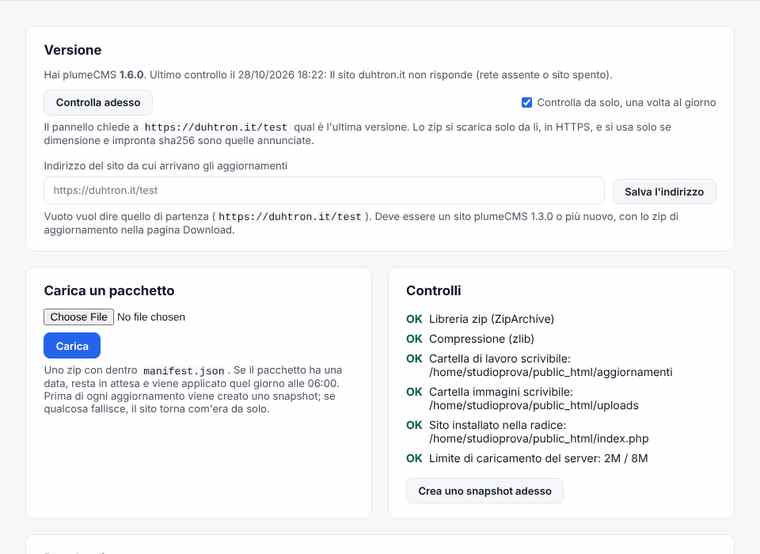
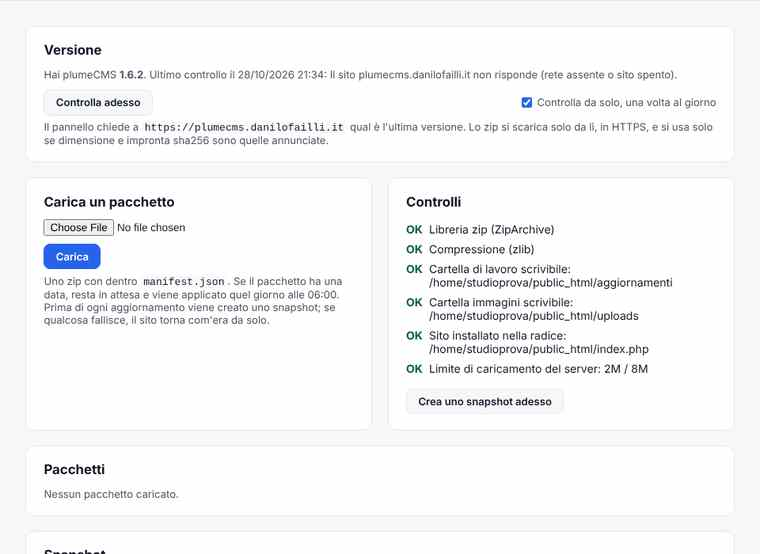
1.6.2: l'indirizzo degli aggiornamenti arriva con gli aggiornamenti
Decisione di Danilo: tutte le installazioni chiedono le versioni nuove a
https://plumecms.danilofailli.it e nessuno lo scrive più a mano. Via il campo
di Aggiornamenti della 1.3.1 e versione_sito_salva(); l'impostazione vecchia
si ignora; CMS_AGGIORNAMENTI_URL resta solo per le prove. prova-versione-sito
riscritta con settings-cli.php; prova-versione e il sito ufficiale finto
ricavano le versioni dal sito cliente invece di averle scritte dentro.

Claude-Session: https://claude.ai/code/session_01Ddnix1ocLSpj3D8QhkAFuA

diff --git a/prove/prova-versione.js b/prove/prova-versione.js
@@ -1,5 +1,5 @@
 // "C'e una versione nuova" (1.3.0) con due installazioni locali: una fa da sito ufficiale (con il pacchetto finto
-// plumecms-1.3.1-aggiornamento.zip nel suo download manager), l'altra e il sito che si aggiorna. Piu un sito ufficiale
+// plumecms-<versione del cliente piu uno>-aggiornamento.zip nel suo download manager), l'altra e il sito che si aggiorna. Piu un sito ufficiale
 // che si comporta male (prove/finto-ufficiale.php). Come un utente: l'avviso nella dashboard (che non aspetta la rete),
 // la pagina Aggiornamenti, "Scarica e prepara", il pacchetto in coda, Applica ora, la versione nuova. Poi i casi da
 // respingere: http senza la costante delle prove, rete assente, rimandi, sha256 sbagliato, zip su un altro host,
@@ -11,6 +11,10 @@ const fs = require('fs'), path = require('path'), crypto = require('crypto');
 const [B, CMS, UFF, CMSU, FINTO, LOGU, U, P, OUT] = process.argv.slice(2);
 let n = 0, ko = 0; const ok = (t, c, extra = '') => { n++; if (!c) ko++; console.log((c ? 'OK  ' : 'KO  ') + t + (extra ? ' ' + JSON.stringify(extra).slice(0, 260) : '')); };
 const CFG = path.join(CMS, 'includes/config.local.php');
+// La versione del cliente e quella "nuova" del pacchetto finto (l'ultimo numero piu uno): la prova vale per ogni versione.
+const V0 = fs.readFileSync(path.join(CMS, 'VERSIONE'), 'utf8').trim();
+const V1 = V0.replace(/(\d+)$/, m => String(+m + 1));
+const rV1 = new RegExp(V1.replace(/\./g, '\\.'));
 const base = fs.readFileSync(CFG, 'utf8').replace(/\n\/\/ prova-versione[\s\S]*$/, '\n');
 // Dopo ogni cambio del config si aspettano 2,2 secondi: con l'opcache il server rilegge un file cambiato solo dopo 2 secondi.
 const attesa = ms => new Promise(r => setTimeout(r, ms));
@@ -19,20 +23,20 @@ const php = (codice) => execFileSync('php', ['-r', `$_SERVER['HTTP_HOST']='127.0
 const svuota = () => php("save_setting('versione_controllo_cache', '');");
 const richiesteUff = () => fs.existsSync(LOGU) ? fs.readFileSync(LOGU, 'utf8').length : 0; // FINTO_CONTA: un carattere per richiesta
 (async () => {
-  // Il pacchetto finto 1.3.1: scrive solo VERSIONE.
-  const pacchetto = path.join(OUT, 'plumecms-1.3.1-aggiornamento.zip');
+  // Il pacchetto finto (la versione del cliente piu uno): scrive solo VERSIONE.
+  const pacchetto = path.join(OUT, `plumecms-${V1}-aggiornamento.zip`);
   execFileSync('python3', ['-I', '-c', `import json,zipfile,sys
 z=zipfile.ZipFile(sys.argv[1],'w',zipfile.ZIP_DEFLATED)
-z.writestr('manifest.json', json.dumps({'nome':'plumeCMS 1.3.1 (prova)','descrizione':'Pacchetto di prova: cambia solo VERSIONE','file':[{'da':'cms/VERSIONE','a':'new/VERSIONE'}]}))
-z.writestr('cms/VERSIONE','1.3.1\\n'); z.close()`, pacchetto]);
+z.writestr('manifest.json', json.dumps({'nome':'plumeCMS ${V1} (prova)','descrizione':'Pacchetto di prova: cambia solo VERSIONE','file':[{'da':'cms/VERSIONE','a':'new/VERSIONE'}]}))
+z.writestr('cms/VERSIONE','${V1}\\n'); z.close()`, pacchetto]);
   fs.mkdirSync(path.join(CMSU, 'uploads/scaricabili'), { recursive: true });
-  fs.copyFileSync(pacchetto, path.join(CMSU, 'uploads/scaricabili/plumecms-1.3.1-aggiornamento.zip'));
+  fs.copyFileSync(pacchetto, path.join(CMSU, `uploads/scaricabili/plumecms-${V1}-aggiornamento.zip`));
   const shaVero = crypto.createHash('sha256').update(fs.readFileSync(pacchetto)).digest('hex');
   // L'endpoint pubblico del sito ufficiale
   const req = await (await chromium.launch()).newContext();
   const r1 = await req.request.get(UFF + '/api/versione.php?serie=plumecms-ultima-aggiornamento');
   const j1 = await r1.json().catch(() => ({}));
-  ok('api/versione.php: versione, nome, sha256, dimensione e indirizzo dell\'ultimo file della serie', r1.status() === 200 && j1.versione === '1.3.1' && j1.nome === 'plumecms-1.3.1-aggiornamento.zip' && j1.sha256 === shaVero && j1.dimensione === fs.statSync(pacchetto).size && j1.url.endsWith('/scarica/plumecms-1.3.1-aggiornamento/'), j1);
+  ok('api/versione.php: versione, nome, sha256, dimensione e indirizzo dell\'ultimo file della serie', r1.status() === 200 && j1.versione === V1 && j1.nome === `plumecms-${V1}-aggiornamento.zip` && j1.sha256 === shaVero && j1.dimensione === fs.statSync(pacchetto).size && j1.url.endsWith(`/scarica/plumecms-${V1}-aggiornamento/`), j1);
   const r2 = await req.request.get(UFF + '/api/versione.php?serie=../../etc');
   const r3 = await req.request.get(UFF + '/api/versione.php?serie=nessuna-ultima');
   const r4 = await req.request.post(UFF + '/api/versione.php?serie=plumecms-ultima-aggiornamento');
@@ -49,7 +53,7 @@ z.writestr('cms/VERSIONE','1.3.1\\n'); z.close()`, pacchetto]);
   // Dashboard: niente cache, il browser chiede il controllo dopo il caricamento; l'avviso compare
   svuota(); const prima = richiesteUff();
   await p.goto(B + '/admin/index.php', { waitUntil: 'networkidle' }); await p.waitForTimeout(1500);
-  ok('dashboard: "plumeCMS 1.3.1 e disponibile" con il link ad Aggiornamenti', await p.locator('#db-versione').isVisible() && /1\.3\.1/.test(await p.locator('#db-versione').innerText()) && await p.locator('#db-versione a[href^="aggiornamenti.php"]').count() === 1);
+  ok(`dashboard: "plumeCMS ${V1} e disponibile" con il link ad Aggiornamenti`, await p.locator('#db-versione').isVisible() && rV1.test(await p.locator('#db-versione').innerText()) && await p.locator('#db-versione a[href^="aggiornamenti.php"]').count() === 1);
   await p.screenshot({ path: `${OUT}/versione-dashboard.png` });
   const dopo1 = richiesteUff();
   for (let i = 0; i < 3; i++) { await p.goto(B + '/admin/index.php', { waitUntil: 'networkidle' }); await p.goto(B + '/admin/aggiornamenti.php', { waitUntil: 'networkidle' }); }
@@ -59,7 +63,7 @@ z.writestr('cms/VERSIONE','1.3.1\\n'); z.close()`, pacchetto]);
   await config(UFF); php(`require_once '${CMS}/includes/versione-nuova.php'; versione_controlla(true);`);
   // Aggiornamenti: Scarica e prepara
   await p.goto(B + '/admin/aggiornamenti.php', { waitUntil: 'networkidle' });
-  ok('Aggiornamenti: la scheda della versione nuova con "Scarica e prepara"', /1\.3\.1 è disponibile/.test(await p.locator('#agg-versione').innerText()) && await p.locator('#agg-versione button:has-text("Scarica e prepara")').count() === 1);
+  ok('Aggiornamenti: la scheda della versione nuova con "Scarica e prepara"', new RegExp(V1.replace(/\./g, '\\.') + ' è disponibile').test(await p.locator('#agg-versione').innerText()) && await p.locator('#agg-versione button:has-text("Scarica e prepara")').count() === 1);
   await p.screenshot({ path: `${OUT}/versione-aggiornamenti.png` });
   // Senza token: respinto
   const inCoda = () => fs.readdirSync(path.join(CMS, 'aggiornamenti/pacchetti')).filter(f => f.endsWith('.zip')).length;
@@ -68,16 +72,16 @@ z.writestr('cms/VERSIONE','1.3.1\\n'); z.close()`, pacchetto]);
   ok('Scarica e prepara senza token CSRF: respinto, niente in coda', senza.status() === 403 && inCoda() === codaPrima, senza.status());
   await Promise.all([p.waitForNavigation({ timeout: 120000 }), p.click('#agg-versione button:has-text("Scarica e prepara")')]);
   const tAgg = await p.locator('body').innerText();
-  ok('Scarica e prepara: scaricato e controllato, il pacchetto e nella lista in attesa', /scaricato e controllato/.test(tAgg) && await p.locator('.agg-table tr', { hasText: 'plumeCMS 1.3.1 (prova)' }).locator('.agg-stato.in_attesa').count() === 1);
-  ok('il sito non e ancora cambiato (versione 1.3.0)', fs.readFileSync(path.join(CMS, 'VERSIONE'), 'utf8').trim() === '1.3.0');
+  ok('Scarica e prepara: scaricato e controllato, il pacchetto e nella lista in attesa', /scaricato e controllato/.test(tAgg) && await p.locator('.agg-table tr', { hasText: `plumeCMS ${V1} (prova)` }).locator('.agg-stato.in_attesa').count() === 1);
+  ok(`il sito non e ancora cambiato (versione ${V0})`, fs.readFileSync(path.join(CMS, 'VERSIONE'), 'utf8').trim() === V0);
   ok('un secondo "Scarica e prepara" non lo mette due volte', await p.locator('#agg-versione').innerText().then(t => /già scaricato/.test(t)) && await p.locator('#agg-versione button:has-text("Scarica e prepara")').count() === 0);
   await p.screenshot({ path: `${OUT}/versione-in-coda.png`, fullPage: true });
-  const rigaP = p.locator('.agg-table tr', { hasText: 'plumeCMS 1.3.1 (prova)' });
+  const rigaP = p.locator('.agg-table tr', { hasText: `plumeCMS ${V1} (prova)` });
   await Promise.all([p.waitForNavigation({ timeout: 120000 }), rigaP.locator('button:has-text("Applica ora")').click()]);
-  ok('Applica ora: il sito e alla 1.3.1', /Aggiornamento applicato/.test(await p.locator('body').innerText()) && fs.readFileSync(path.join(CMS, 'VERSIONE'), 'utf8').trim() === '1.3.1');
+  ok(`Applica ora: il sito e alla ${V1}`, /Aggiornamento applicato/.test(await p.locator('body').innerText()) && fs.readFileSync(path.join(CMS, 'VERSIONE'), 'utf8').trim() === V1);
   await p.goto(B + '/admin/index.php', { waitUntil: 'networkidle' }); await p.waitForTimeout(800);
   ok('dopo l\'aggiornamento la dashboard non mostra piu l\'avviso', !(await p.locator('#db-versione').isVisible()));
-  fs.writeFileSync(path.join(CMS, 'VERSIONE'), '1.3.0\n');
+  fs.writeFileSync(path.join(CMS, 'VERSIONE'), V0 + '\n');
   // I casi da respingere: Controlla adesso, poi Scarica e prepara
   const controlla = async () => { await p.goto(B + '/admin/aggiornamenti.php', { waitUntil: 'networkidle' }); await Promise.all([p.waitForNavigation({ timeout: 60000 }), p.click('#agg-versione button:has-text("Controlla adesso")')]); return p.locator('body').innerText(); };
   const prepara = async () => { if (!await p.locator('#agg-versione button:has-text("Scarica e prepara")').count()) return 'nessun pulsante'; await Promise.all([p.waitForNavigation({ timeout: 120000 }), p.click('#agg-versione button:has-text("Scarica e prepara")')]); return p.locator('body').innerText(); };

diff --git a/prove/prova-versione-sito.js b/prove/prova-versione-sito.js
@@ -1,8 +1,14 @@
-// L'indirizzo del sito ufficiale come parametro (1.3.1): in Aggiornamenti si scrive, si controlla, si torna al predefinito.
-// Serve un sito senza CMS_AGGIORNAMENTI_URL nel config.local.php (con la costante il campo non c'è: lo dice la pagina).
-// uso: node prova-versione-sito.js <base> <utente> <password>
+// L'indirizzo del sito ufficiale non si scrive più nel pannello (1.6.2, decisione di Danilo): è quello del codice e arriva
+// con gli aggiornamenti. Qui si controlla che in Aggiornamenti il campo della 1.3.1 non ci sia più, che la pagina dica
+// l'indirizzo ufficiale, che il vecchio POST "versione_sito" non faccia niente e che un indirizzo salvato in passato
+// (impostazione versione_sito di un sito aggiornato) venga ignorato.
+// Serve un sito senza CMS_AGGIORNAMENTI_URL nel config.local.php (con la costante la pagina mostra quella).
+// uso: node prova-versione-sito.js <base> <utente> <password> [cartella CMS installato: scrive l'impostazione vecchia con settings-cli]
 const { chromium } = require('playwright');
-const [B, UTENTE, PASSWORD] = process.argv.slice(2);
+const { execFileSync } = require('child_process');
+const path = require('path');
+const [B, UTENTE, PASSWORD, DIR] = process.argv.slice(2);
+const UFFICIALE = 'https://plumecms.danilofailli.it';
 let n = 0, ko = 0; const ok = (t, c, extra = '') => { n++; if (!c) ko++; console.log((c ? 'OK  ' : 'KO  ') + t + (extra ? ' ' + JSON.stringify(extra).slice(0, 200) : '')); };
 
 (async () => {
@@ -13,20 +19,27 @@ let n = 0, ko = 0; const ok = (t, c, extra = '') => { n++; if (!c) ko++; console
   await Promise.all([p.waitForNavigation(), p.click('button[type=submit]')]);
   const pagina = () => p.goto(B + '/admin/aggiornamenti.php', { waitUntil: 'networkidle' });
   const nota = async () => (await p.locator('.agg-note', { hasText: 'qual è l\'ultima versione' }).first().innerText());
-  const salva = async (u) => { await p.fill('input[name=sito]', u); await Promise.all([p.waitForNavigation(), p.click('button:has-text("Salva l\'indirizzo")')]); return p.locator('body').innerText(); };
 
   await pagina();
-  const predefinito = await p.locator('input[name=sito]').getAttribute('placeholder');
-  ok('il campo dell\'indirizzo c\'è, con il predefinito come esempio', /^https:\/\//.test(predefinito || ''), predefinito);
-  let t = await salva('http://esempio.it');
-  ok('un indirizzo senza https viene rifiutato', /comincia con https:\/\//.test(t));
-  t = await salva('https://esempio.it/x?a=1');
-  ok('un indirizzo con ? viene rifiutato', /senza \? né #/.test(t));
-  t = await salva('https://www.esempio.it/plume/');
-  ok('un indirizzo giusto si salva, senza la barra finale', /Da adesso il pannello chiede le versioni nuove a https:\/\/www\.esempio\.it\/plume\./.test(t));
-  ok('la pagina dice a chi chiede', (await nota()).includes('https://www.esempio.it/plume'), await nota());
-  t = await salva('');
-  ok('vuoto torna al predefinito', (await nota()).includes(predefinito), await nota());
+  ok('il campo "Indirizzo del sito da cui arrivano gli aggiornamenti" non c\'è più', await p.locator('input[name=sito]').count() === 0 && !(await p.locator('body').innerText()).includes('Salva l\'indirizzo'));
+  ok('la pagina dice che chiede a ' + UFFICIALE, (await nota()).includes(UFFICIALE), await nota());
+  // Il vecchio POST della 1.3.1: la pagina lo ignora, niente errori, l'indirizzo non cambia.
+  const t = await p.evaluate(async () => {
+    const csrf = document.querySelector('input[name=_csrf]').value;
+    const r = await fetch('aggiornamenti.php', { method: 'POST', headers: { 'Content-Type': 'application/x-www-form-urlencoded' }, body: new URLSearchParams({ _csrf: csrf, action: 'versione_sito', sito: 'https://www.esempio.it/plume' }).toString(), credentials: 'include' });
+    return { status: r.status, testo: (await r.text()).slice(0, 4000) };
+  });
+  await pagina();
+  ok('il vecchio POST "versione_sito" non cambia niente', t.status < 400 && !/Fatal|Warning/.test(t.testo) && (await nota()).includes(UFFICIALE) && !(await nota()).includes('esempio.it'), { status: t.status });
+  if (DIR) {
+    // Un sito aggiornato che aveva salvato un indirizzo suo: si ignora.
+    execFileSync('php', [path.join(__dirname, 'settings-cli.php'), DIR, 'scrivi', 'versione_sito', 'https://www.esempio.it/plume']);
+    await pagina();
+    ok('un indirizzo salvato in passato (impostazione versione_sito) viene ignorato', (await nota()).includes(UFFICIALE) && !(await nota()).includes('esempio.it'), await nota());
+    execFileSync('php', [path.join(__dirname, 'settings-cli.php'), DIR, 'scrivi', 'versione_sito', '']);
+  } else {
+    ok('(senza la cartella del CMS la prova dell\'impostazione vecchia si salta)', true);
+  }
   ok('nessun errore JavaScript', err.length === 0, err);
   await br.close();
   console.log(`\n${n - ko} su ${n} OK`);

diff --git a/cms/includes/versione-nuova.php b/cms/includes/versione-nuova.php
@@ -4,9 +4,10 @@
  * versione e, se e più nuova di questa, l'amministratore la scarica e la mette nella coda di Aggiornamenti con un clic.
  * Da li si applica come uno zip caricato a mano: snapshot, file, ripristino da solo se qualcosa va storto.
  *
- * Da dove (1.3.1: un parametro): CMS_AGGIORNAMENTI_URL nel config.local.php se c'è (vince e il pannello non lo cambia),
- * altrimenti l'indirizzo scritto in Aggiornamenti (impostazione versione_sito), altrimenti VERSIONE_SITO_UFFICIALE.
- * Ognuno e l'indirizzo di un plumeCMS, senza barra finale. Il sito ufficiale risponde con api/versione.php per la serie VERSIONE_SERIE del suo
+ * Da dove (1.6.2, decisione di Danilo): sempre VERSIONE_SITO_UFFICIALE, scritto qui e portato dagli aggiornamenti stessi;
+ * nessuno lo scrive più nel pannello (il campo della 1.3.1 non c'è più e l'impostazione versione_sito, se un sito l'aveva
+ * salvata, si ignora). Solo per le prove, CMS_AGGIORNAMENTI_URL nel config.local.php lo sostituisce (prove/prova-versione.js).
+ * E l'indirizzo di un plumeCMS, senza barra finale. Il sito ufficiale risponde con api/versione.php per la serie VERSIONE_SERIE del suo
  * download manager: versione, nome, sha256 e dimensione del file.
  *
  * Quando: al massimo una volta al giorno (la risposta si ricorda nell'impostazione versione_controllo_cache), mai
@@ -33,24 +34,10 @@ const VERSIONE_MAX_ZIP = 52428800;      // 50 MB
 const VERSIONE_TIMEOUT = 5;             // secondi per la risposta JSON
 const VERSIONE_TIMEOUT_ZIP = 60;        // secondi per lo zip
 
-/** L'indirizzo del sito ufficiale (senza barra finale): la costante del config, poi quello del pannello, poi il predefinito. */
+/** L'indirizzo del sito ufficiale (senza barra finale): VERSIONE_SITO_UFFICIALE, o CMS_AGGIORNAMENTI_URL solo nelle prove. */
 function versione_sito(): string {
     if (defined('CMS_AGGIORNAMENTI_URL')) return rtrim(trim((string)CMS_AGGIORNAMENTI_URL), '/');
-    $u = trim((string)get_setting('versione_sito', ''));
-    return rtrim($u !== '' ? $u : VERSIONE_SITO_UFFICIALE, '/');
-}
-
-/**
- * Cambia l'indirizzo del sito ufficiale dal pannello: '' torna al predefinito. Ritorna '' oppure il motivo per cui non va.
- * Un indirizzo nuovo dimentica la risposta di prima (che era di un altro sito).
- */
-function versione_sito_salva(string $u): string {
-    if (defined('CMS_AGGIORNAMENTI_URL')) return 'L\'indirizzo è fissato nel file config.local.php (CMS_AGGIORNAMENTI_URL): si cambia lì.';
-    $u = rtrim(trim($u), '/');
-    if ($u !== '' && (!versione_url_ok($u) || strlen($u) > 300 || preg_match('/[\s"<>?#]/', $u))) return 'Scrivi l\'indirizzo completo di un sito plumeCMS, che comincia con https:// (per esempio https://www.plumecms.it), senza ? né #.';
-    save_setting('versione_sito', $u);
-    save_setting('versione_controllo_cache', '');
-    return '';
+    return rtrim(VERSIONE_SITO_UFFICIALE, '/');
 }
 
 /** Il controllo e acceso? (Aggiornamenti, "Controlla da solo") */

diff --git a/cms/admin/aggiornamenti.php b/cms/admin/aggiornamenti.php
@@ -102,10 +102,6 @@ if ($_SERVER['REQUEST_METHOD'] === 'POST') {
             $id = versione_scarica_e_prepara();
             $p = agg_leggi_stato($id);
             flash('success', 'Aggiornamento "' . ($p['nome'] ?? $id) . '" scaricato e controllato (dimensione e sha256): è nella lista qui sotto. Leggi il riepilogo e premi "Applica ora".');
-        } elseif ($action === 'versione_sito') {
-            $perche = versione_sito_salva((string)($_POST['sito'] ?? ''));
-            if ($perche !== '') flash('error', $perche);
-            else flash('success', 'Da adesso il pannello chiede le versioni nuove a ' . versione_sito() . '. Premi "Controlla adesso" per provarlo.');
         } elseif ($action === 'versione_interruttore') {
             save_setting('versione_controllo', !empty($_POST['attivo']) ? '1' : '0');
             flash('success', !empty($_POST['attivo']) ? 'Il pannello controllerà da solo, una volta al giorno, se c\'è una versione nuova.' : 'Controllo automatico della versione spento.');
@@ -196,12 +192,8 @@ details summary{cursor:pointer;font-size:0.82rem;color:var(--text-muted)}
     </form>
   </div>
   <p class="agg-note">Il pannello chiede a <code><?= h(versione_sito()) ?></code> qual è l'ultima versione. Lo zip si scarica solo da lì, in HTTPS, e si usa solo se dimensione e impronta sha256 sono quelle annunciate.</p>
-  <?php if (defined('CMS_AGGIORNAMENTI_URL')): ?><p class="agg-note">L'indirizzo è fissato nel file <code>config.local.php</code> (<code>CMS_AGGIORNAMENTI_URL</code>): si cambia lì.</p>
-  <?php else: ?><form method="post" class="agg-riga" style="display:flex;gap:.6rem;align-items:flex-end;flex-wrap:wrap;margin-top:1rem"><?= csrf_field() ?><input type="hidden" name="action" value="versione_sito">
-    <label class="agg-note" style="flex:1;min-width:16rem;margin:0">Indirizzo del sito da cui arrivano gli aggiornamenti<br>
-      <input type="url" name="sito" value="<?= h((string)get_setting('versione_sito', '')) ?>" placeholder="<?= h(VERSIONE_SITO_UFFICIALE) ?>" maxlength="300" style="width:100%;margin-top:.35rem;padding:.55rem .7rem;border:1px solid var(--border);border-radius:8px;font:inherit;color:inherit;background:var(--campo)"></label>
-    <button class="agg-btn" type="submit">Salva l'indirizzo</button>
-  </form><p class="agg-note">Vuoto vuol dire quello di partenza (<code><?= h(VERSIONE_SITO_UFFICIALE) ?></code>). Deve essere un sito plumeCMS 1.3.0 o più nuovo, con lo zip di aggiornamento nella pagina Download.</p><?php endif; ?>
+  <?php // 1.6.2: l'indirizzo del sito ufficiale non si scrive più qui: arriva con gli aggiornamenti (includes/versione-nuova.php). ?>
+  <?php if (defined('CMS_AGGIORNAMENTI_URL')): ?><p class="agg-note">L'indirizzo è fissato nel file <code>config.local.php</code> (<code>CMS_AGGIORNAMENTI_URL</code>): serve solo alle prove.</p><?php endif; ?>
 </div>
 
 <?php if ($daApplicare): ?>

diff --git a/prove/finto-ufficiale.php b/prove/finto-ufficiale.php
@@ -15,24 +15,26 @@
 $u = (string)parse_url($_SERVER['REQUEST_URI'], PHP_URL_PATH);
 $modo = explode('/', ltrim($u, '/'))[0] ?? '';
 $zip = (string)getenv('FINTO_ZIP');
+// La versione che annuncia e quella nel nome del pacchetto (prova-versione.js la fa dal sito cliente, piu uno).
+$v = preg_match('~plumecms-([\d.]+)-aggiornamento~', basename($zip), $m) ? $m[1] : '1.3.1';
 $base = 'http://127.0.0.1:' . $_SERVER['SERVER_PORT'] . '/' . $modo;
 if (str_ends_with($u, '/api/versione.php')) {
     if (getenv('FINTO_CONTA')) file_put_contents((string)getenv('FINTO_CONTA'), '.', FILE_APPEND); // quante richieste (prova della cache)
     if ($modo === 'redirect') { header('Location: http://127.0.0.1:8083/api/versione.php?serie=plumecms-ultima-aggiornamento', true, 302); exit; }
     if ($modo === 'lento') sleep(8);
-    if ($modo === 'enorme') { header('Content-Type: application/json'); echo '{"versione":"1.3.1","x":"' . str_repeat('a', 100000) . '"}'; exit; }
-    $d = ['serie' => 'plumecms-ultima-aggiornamento', 'versione' => '1.3.1', 'nome' => 'plumecms-1.3.1-aggiornamento.zip', 'sha256' => hash_file('sha256', $zip), 'dimensione' => filesize($zip), 'url' => $base . '/scarica/plumecms-1.3.1-aggiornamento/'];
+    if ($modo === 'enorme') { header('Content-Type: application/json'); echo '{"versione":"' . $v . '","x":"' . str_repeat('a', 100000) . '"}'; exit; }
+    $d = ['serie' => 'plumecms-ultima-aggiornamento', 'versione' => $v, 'nome' => 'plumecms-' . $v . '-aggiornamento.zip', 'sha256' => hash_file('sha256', $zip), 'dimensione' => filesize($zip), 'url' => $base . '/scarica/plumecms-' . $v . '-aggiornamento/'];
     if ($modo === 'sha') $d['sha256'] = str_repeat('0', 64);
-    if ($modo === 'host') $d['url'] = 'http://127.0.0.2:' . $_SERVER['SERVER_PORT'] . '/host/scarica/plumecms-1.3.1-aggiornamento/';
+    if ($modo === 'host') $d['url'] = 'http://127.0.0.2:' . $_SERVER['SERVER_PORT'] . '/host/scarica/plumecms-' . $v . '-aggiornamento/';
     if ($modo === 'corto') $d['dimensione'] = 100;
     if ($modo === 'grande') $d['dimensione'] = 60 * 1048576;
-    if ($modo === 'http') $d['url'] = 'https://127.0.0.1:' . $_SERVER['SERVER_PORT'] . '/http/scarica/plumecms-1.3.1-aggiornamento/';
+    if ($modo === 'http') $d['url'] = 'https://127.0.0.1:' . $_SERVER['SERVER_PORT'] . '/http/scarica/plumecms-' . $v . '-aggiornamento/';
     header('Content-Type: application/json');
     echo json_encode($d, JSON_UNESCAPED_SLASHES);
     exit;
 }
 if (str_contains($u, '/scarica/')) {
-    if ($modo === 'zipredirect') { header('Location: http://127.0.0.2:8084/buono/scarica/plumecms-1.3.1-aggiornamento/', true, 302); exit; }
+    if ($modo === 'zipredirect') { header('Location: http://127.0.0.2:8084/buono/scarica/plumecms-' . $v . '-aggiornamento/', true, 302); exit; }
     header('Content-Type: application/zip');
     readfile($zip);
     exit;

diff --git a/sito-plumecms/costruisci.py b/sito-plumecms/costruisci.py
@@ -603,6 +603,7 @@ NOVITA = [
         'Il pannello parte chiaro, e ogni utente sceglie il suo aspetto: Aria, Bottega, Cosmo, Lavagna.',
         'Primi passi nella dashboard, la pagina Controlla il server, foto più leggere in WebP, l\'icona del sito già pronta.',
         'Il Log cron dice cosa ha fatto ogni giro, in parole chiare.']),
+    ('1.6.2', 'L\'indirizzo degli aggiornamenti arriva da solo', ['Ogni installazione chiede le versioni nuove a plumecms.danilofailli.it: non c\'è più niente da scrivere in Aggiornamenti, l\'indirizzo viaggia con gli aggiornamenti.']),
     ('1.3.1', 'Il sito degli aggiornamenti si sceglie', ['In Impostazioni, Aggiornamenti scrivi da quale sito arrivano le versioni nuove: non è più fisso nel codice.']),
     ('1.3.0', 'Si parte con un sito vero', ['All\'installazione scegli che sito vuoi fare: personale, attività, blog, portfolio. Parte già fatto.',
                                            'Nell\'editor, trenta sezioni pronte da mettere nella pagina con un clic.',

diff --git a/prove/settings-cli.php b/prove/settings-cli.php
@@ -1,0 +1,18 @@
+<?php
+/**
+ * Legge o scrive un'impostazione di un CMS installato, da riga di comando (per le prove, mai nel prodotto).
+ * uso: php prove/settings-cli.php <cartella CMS> leggi <chiave>
+ *      php prove/settings-cli.php <cartella CMS> scrivi <chiave> <valore>
+ */
+[$dir, $azione, $chiave] = array_pad(array_slice($argv, 1, 3), 3, '');
+if ($dir === '' || !in_array($azione, ['leggi', 'scrivi'], true) || $chiave === '') {
+    fwrite(STDERR, "uso: settings-cli.php <cartella CMS> leggi|scrivi <chiave> [valore]\n");
+    exit(2);
+}
+require $dir . '/includes/config.php';
+require_once $dir . '/includes/db.php';
+if ($azione === 'leggi') {
+    echo get_setting($chiave, ''), "\n";
+} else {
+    save_setting($chiave, (string)($argv[4] ?? ''));
+}

diff --git a/CLAUDE.md b/CLAUDE.md
@@ -93,7 +93,7 @@ Stato, decisioni, contesto e diario non stanno qui: stanno nel second brain
 - **Pacchetto di aggiornamento** per un'installazione esistente:
   `python3 tools/cms-pacchetto.py --aggiornamento`. Si carica dal pannello,
   Impostazioni, Aggiornamenti.
-- **Versione**: `cms/VERSIONE` (oggi 1.6.1) e una voce in `cms/CHANGELOG.md` a ogni
+- **Versione**: `cms/VERSIONE` (oggi 1.6.2) e una voce in `cms/CHANGELOG.md` a ogni
   zip con contenuto diverso. Mai cambiare il contenuto di una versione già data.
 - **Prove** prima di dire finito:
   - `php -n -d short_open_tag=1 -l` su ogni file PHP toccato, `node --check` sui js;
@@ -129,7 +129,13 @@ Le decisioni complete, con data e perché, stanno nel second brain, `plumecms/de
 
 ## Stato al 28 ottobre 2026
 
-Fatto: plumeCMS 1.6.1 (28 ottobre, sera): il sito ufficiale diventa `https://plumecms.danilofailli.it` (decisione di Danilo:
+Fatto: plumeCMS 1.6.2 (28 ottobre, sera): l'indirizzo del sito ufficiale non si scrive più nel pannello (decisione di Danilo:
+"non inseriranno più manualmente il dominio, gli verrà passato dagli aggiornamenti"): via il campo della 1.3.1 e `versione_sito_salva()`,
+l'impostazione `versione_sito` vecchia si ignora, `CMS_AGGIORNAMENTI_URL` resta solo per le prove. `prova-versione-sito.js` riscritta
+(5 controlli, con `prove/settings-cli.php`); `prova-versione.js` e `finto-ufficiale.php` non hanno più le versioni scritte dentro
+(28/28 sulla 1.6.2). Schermata 26 del manuale d'uso rifatta. Prove: install 37/37, aggiornamento 1.6.1 -> 1.6.2 13/13 (anche con un
+indirizzo salvato a mano, ignorato) e 1.6.0 -> 1.6.2 13/13, sito di plumeCMS 81/81.
+1.6.1 (28 ottobre, sera): il sito ufficiale diventa `https://plumecms.danilofailli.it` (decisione di Danilo:
 trasferire il sito da duhtron.it/test a un sottodominio suo). `VERSIONE_SITO_UFFICIALE` cambiata; il costruttore rifiuta ancora
 `danilofailli.it` nel nucleo ma ammette il sottodominio. Il trasloco si fa con Copia del sito: provato qui (sito in `/test` con
 le sei parti, copia ripristinata su un'installazione nuova in radice, 13 pagine uguali, download ok). Prove 1.6.1: install
@@ -197,9 +203,9 @@ Aperto:
   nuove non ne risentono. Se un giorno si cambia il predefinito, prima va aggiunto
   `define('CMS_PREFISSO', 'newdf_');` al `config.local.php` di danilofailli.it;
 - prova vera delle chiamate a Google Search Console e IndexNow da un server con rete aperta;
-- **indirizzo del sito ufficiale** per "c'è una versione nuova": dalla 1.3.1 si sceglie in Aggiornamenti; il predefinito
-  `VERSIONE_SITO_UFFICIALE` (`includes/versione-nuova.php`) dalla 1.6.1 vale `https://plumecms.danilofailli.it`: finché il
-  trasloco non è fatto, un'installazione nuova non trova il sito ufficiale (dice "non raggiungibile", nient'altro);
+- **indirizzo del sito ufficiale** per "c'è una versione nuova": dalla 1.6.2 è solo `VERSIONE_SITO_UFFICIALE`
+  (`includes/versione-nuova.php`, `https://plumecms.danilofailli.it`), nessun campo nel pannello (decisione di Danilo); finché
+  il trasloco non è fatto, le installazioni non trovano il sito ufficiale (dicono "non raggiungibile", nient'altro);
 - copia del sito: il ripristino non toglie i file che stanno nel sito ma non nella copia; con due installazioni nello stesso database
   e prefissi che cominciano uguale (`cms_` e `cms_b_`) la copia prende anche le tabelle dell'altra;
 - "c'è una versione nuova" provato solo in http locale (`CMS_AGGIORNAMENTI_HTTP_PROVA`): HTTPS vero da provare su un server;
@@ -267,6 +273,7 @@ Errori veri, già pagati. Non ripeterli.
 | Una regola di un foglio nuovo con un solo nome di classe (`.ed-hero-copertina{padding:...}`) | perde contro `.ed-w-hero .hero{padding:0}` di `sito.css`: nella 1.2.6 testo e pulsanti della Copertina toccavano il bordo, e nessuna prova lo vedeva (passavano tutte). Le regole sul contenitore di una disposizione si scrivono `.ed-hero.ed-hero-<id>`; le foto si guardano anche sul sito vero, non solo sulla pagina di prova |
 | Cercare i resti di un sito con le sue parole (danilofailli, laser, ebook) | sfuggono le frasi: i widget extra avevano ancora "Non lavoro per renderti più forte", "Fai chiarezza in 15 minuti", un listino a incontri. Si guarda la pagina con tutti i widget, a occhio |
 | Una consegna in un solo zip da 15 MB | arrivata rotta a Danilo due volte (1.5.0 e 1.6.0) pur essendo integra qui; anche i pezzi da 4,8 MB lo hanno confuso (li ha caricati nel pannello: "supera il limite"). Funziona mandare **i file uno per uno** (aggiornamento, parti del sito, PDF), ognuno sotto 1,9 MB, nell'ordine di caricamento (28 ottobre 2026) |
+| `open(f, 'w').write(f(open(f).read()))` in Python | `open(f, 'w')` svuota il file prima che la lettura avvenga: il `config.local.php` di un sito di prova è finito vuoto (28 ottobre 2026) e la prova dopo falliva in modo incomprensibile. Prima si legge in una variabile, poi si scrive |
 | Fidarsi del resoconto di un agente | è successo che un agente dichiarasse lavoro mai scritto su disco. Si controllano i file veri e si rifanno le prove |
 
 ## Tono con l'utente

diff --git a/cms/docs/manuale-tecnico.md b/cms/docs/manuale-tecnico.md
@@ -1,6 +1,6 @@
 # plumeCMS: manuale tecnico
 
-Versione del manuale: 1.13, per plumeCMS 1.6.1 (28 ottobre 2026).
+Versione del manuale: 1.14, per plumeCMS 1.6.2 (28 ottobre 2026).
 
 Questo manuale descrive come è fatto plumeCMS e come funziona, pezzo per pezzo. È scritto leggendo il codice:
 ogni numero, limite e nome di funzione viene dai file veri, con il riferimento `file:riga` quando serve a chi
@@ -303,7 +303,7 @@ web non lo serve mai (`.htaccess`, capitolo 21). Non va messo in un repository.
 | `CMS_RADICE_SITO` | radice del dominio per i pacchetti (`root/`) | rilevata (capitolo 19.2) |
 | `CMS_PROXY_FIDATO` | crede all'intestazione `X-Forwarded-For` (CMS dietro un proxy) | spenta: vale solo `REMOTE_ADDR` |
 | `CMS_SICUREZZA_SPEGNI` | riga di emergenza: spegne 2FA e lista IP (capitolo 18.11) | spenta |
-| `CMS_AGGIORNAMENTI_URL` | il sito a cui chiedere l'ultima versione (un plumeCMS, senza barra finale; 19.6); vince sul campo del pannello | l'indirizzo scritto in Aggiornamenti, poi `VERSIONE_SITO_UFFICIALE` |
+| `CMS_AGGIORNAMENTI_URL` | solo per le prove: il sito a cui chiedere l'ultima versione al posto di quello ufficiale (19.6) | `VERSIONE_SITO_UFFICIALE` |
 | `CMS_AGGIORNAMENTI_HTTP_PROVA` | solo per le prove: con `true` il controllo della versione accetta anche `http://` | spenta (solo HTTPS) |
 | `CMS_IMPORTA_WP_LOCALE` | solo per le prove in locale: elenco `host:porta` (separati da virgole) da cui l'import da WordPress accetta indirizzi interni e `http://` (capitolo 26) | spenta: solo siti pubblici, porte 80 e 443, credenziali solo in HTTPS |
 | `CMS_IMPORTA_WP_GIRO` | solo per le prove: i secondi di un giro dell'import (anche decimali, minimo 0.2) | 8 secondi |
@@ -1931,10 +1931,11 @@ quel sito ha i suoi pacchetti costruiti con `--sito`.
 ### 19.6 "C'è una versione nuova" (dalla 1.3.0)
 
 Motore `includes/versione-nuova.php`. Il pannello chiede al sito ufficiale di plumeCMS l'ultima versione della serie
-`plumecms-ultima-aggiornamento`. Quale sito è un parametro (dalla 1.3.1, `versione_sito()`), in quest'ordine:
-`CMS_AGGIORNAMENTI_URL` nel `config.local.php` (vince, e il pannello lo dice); l'indirizzo scritto in Aggiornamenti, campo
-"Indirizzo del sito da cui arrivano gli aggiornamenti" (impostazione `versione_sito`, solo https, senza `?` e `#`; cambiarlo
-dimentica la risposta di prima; vuoto torna al predefinito); `VERSIONE_SITO_UFFICIALE` (`includes/versione-nuova.php:29`, dalla 1.6.1 `https://plumecms.danilofailli.it`; prima `https://duhtron.it/test`). La
+`plumecms-ultima-aggiornamento`. Quale sito lo dice il codice (`versione_sito()`): `VERSIONE_SITO_UFFICIALE`
+(`includes/versione-nuova.php:30`, `https://plumecms.danilofailli.it`; fino alla 1.6.0 `https://duhtron.it/test`), e l'indirizzo
+arriva quindi con gli aggiornamenti stessi. Dalla 1.3.1 alla 1.6.1 c'era un campo in Aggiornamenti ("Indirizzo del sito da cui
+arrivano gli aggiornamenti", impostazione `versione_sito`): dalla 1.6.2 non c'è più, decisione di Danilo, e l'impostazione di un
+sito che l'aveva salvata si ignora. Solo per le prove, `CMS_AGGIORNAMENTI_URL` nel `config.local.php` lo sostituisce. La
 domanda passa da `api/versione.php` (14.1). Il sito ufficiale non ha niente di speciale: è un plumeCMS che ha lo zip di aggiornamento
 nel suo download manager.
 

diff --git a/prove/LEGGIMI.md b/prove/LEGGIMI.md
@@ -197,16 +197,21 @@ Ripristina il sito più volte: alla fine il sito è quello della copia fatta all
 (`<base ufficiale>`, installazione qualunque della 1.3.0). Più `prove/finto-ufficiale.php`, un sito ufficiale che si
 comporta male: `FINTO_ZIP=<cartella schermate>/plumecms-1.3.1-aggiornamento.zip FINTO_CONTA=<file> php -S 127.0.0.1:8084 prove/finto-ufficiale.php`.
 `node prove/prova-versione.js <base cliente> <cartella CMS cliente> <base ufficiale> <cartella CMS ufficiale> <base finto> <file FINTO_CONTA> <utente> <password> <cartella schermate>`.
-La prova scrive il pacchetto finto 1.3.1 (cambia solo `VERSIONE`) nel download manager del sito ufficiale e cambia il
+La prova scrive il pacchetto finto (la versione del cliente più uno, cambia solo `VERSIONE`) nel download manager del sito
+ufficiale e cambia il
 `config.local.php` del cliente (`CMS_AGGIORNAMENTI_URL`, `CMS_AGGIORNAMENTI_HTTP_PROVA`), aspettando 2 secondi a ogni
 cambio perché l'opcache del server lo rilegga; alla fine toglie le sue righe e rimette `VERSIONE` a 1.3.0.
-`CMS_AGGIORNAMENTI_HTTP_PROVA` serve solo qui: su un sito vero il controllo vuole HTTPS. Atteso: 28 su 28.
+`CMS_AGGIORNAMENTI_HTTP_PROVA` serve solo qui: su un sito vero il controllo vuole HTTPS. Atteso: 28 su 28. Fino alla 1.6.1 le
+versioni 1.3.0 e 1.3.1 erano scritte nella prova e nel sito finto, che quindi passavano solo allora: dalla 1.6.2 il finto legge
+la versione dal nome del file in `FINTO_ZIP` (`plumecms-<versione del cliente più uno>-aggiornamento.zip`).
 
-## prova-versione-sito.js (1.3.1)
+## prova-versione-sito.js (1.3.1, riscritta nella 1.6.2)
 
-L'indirizzo del sito ufficiale come parametro di Aggiornamenti: rifiuta http e gli indirizzi con `?`, salva quello giusto
-senza la barra finale, vuoto torna al predefinito. Serve un sito senza `CMS_AGGIORNAMENTI_URL` nel config.
-`node prove/prova-versione-sito.js <base> <utente> <password>`. Atteso: 7 su 7.
+L'indirizzo del sito ufficiale non si scrive più nel pannello: il campo della 1.3.1 non c'è, la pagina dice che chiede a
+`https://plumecms.danilofailli.it`, il vecchio POST `versione_sito` non fa niente e un'impostazione `versione_sito` salvata
+in passato viene ignorata (scritta e tolta con `prove/settings-cli.php`, che legge e scrive un'impostazione di un CMS
+installato). Serve un sito senza `CMS_AGGIORNAMENTI_URL` nel config.
+`node prove/prova-versione-sito.js <base> <utente> <password> [cartella CMS installato]`. Atteso: 5 su 5.
 
 ## prova-aspetti.js (1.4.0)
 

diff --git a/cms/CHANGELOG.md b/cms/CHANGELOG.md
@@ -2,6 +2,15 @@
 
 Il prodotto si chiama **plumeCMS** (nome scelto il 26 ottobre 2026; prima, per poche ore, "CarbonaraCMS", e ancora prima il provvisorio "Officina": gli zip vecchi si chiamavano `officina-*` e `carbonaracms-*`).
 
+## 1.6.2 (28 ottobre 2026) - L'indirizzo degli aggiornamenti arriva con gli aggiornamenti
+
+- **Decisione di Danilo**: tutte le installazioni chiedono le versioni nuove a `https://plumecms.danilofailli.it`, e
+  nessuno scrive più quell'indirizzo a mano. In Impostazioni > Aggiornamenti il campo "Indirizzo del sito da cui arrivano gli
+  aggiornamenti" (nato nella 1.3.1) non c'è più; se un sito ci aveva scritto un indirizzo suo, da questa versione lo ignora.
+  L'indirizzo sta nel codice e cambia solo con un aggiornamento.
+- Nient'altro cambia nel pannello e nel sito. Prove: `prova-versione-sito.js` riscritta (5 controlli), `prova-versione.js` e
+  il sito ufficiale finto valgono per qualunque versione (28 su 28 sulla 1.6.2).
+
 ## 1.6.1 (28 ottobre 2026) - Il sito ufficiale cambia indirizzo
 
 - Il sito da cui plumeCMS si scarica, e a cui il pannello chiede "c'è una versione nuova?", diventa
